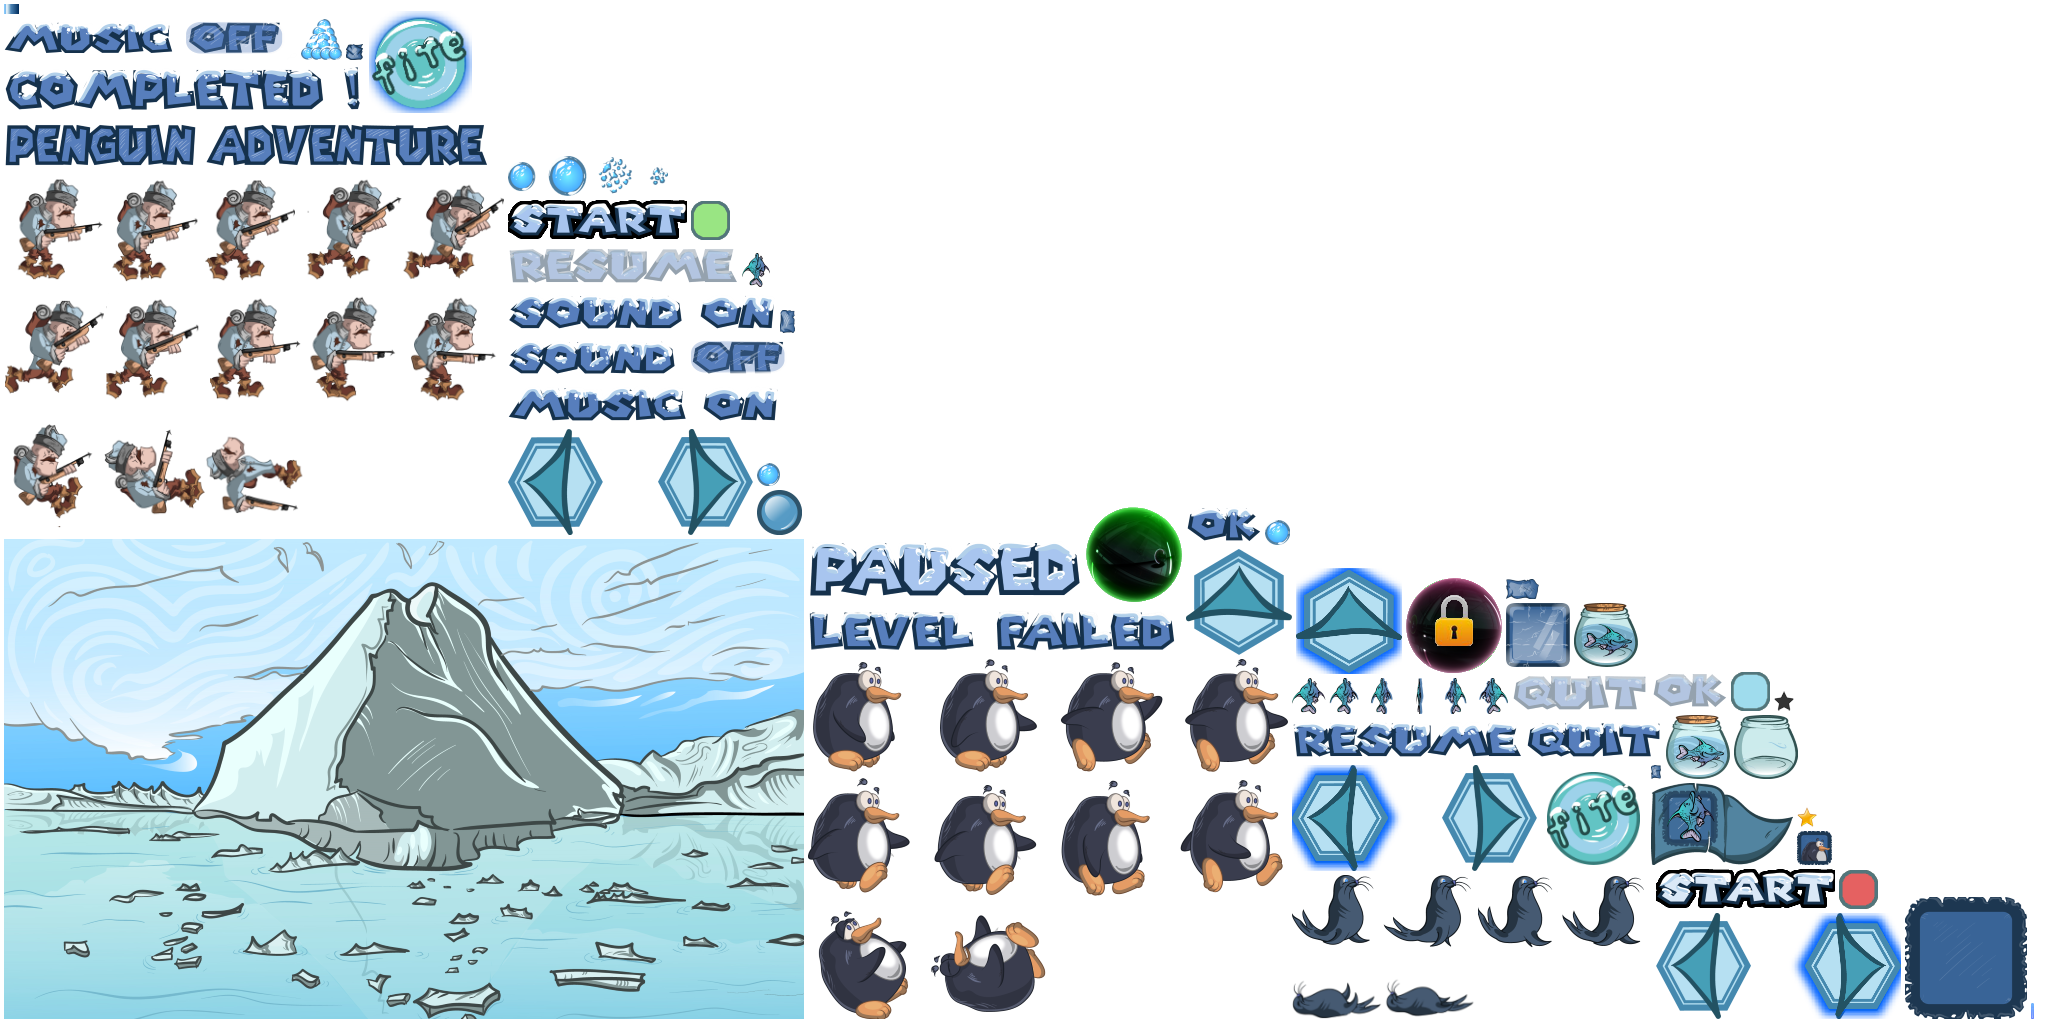
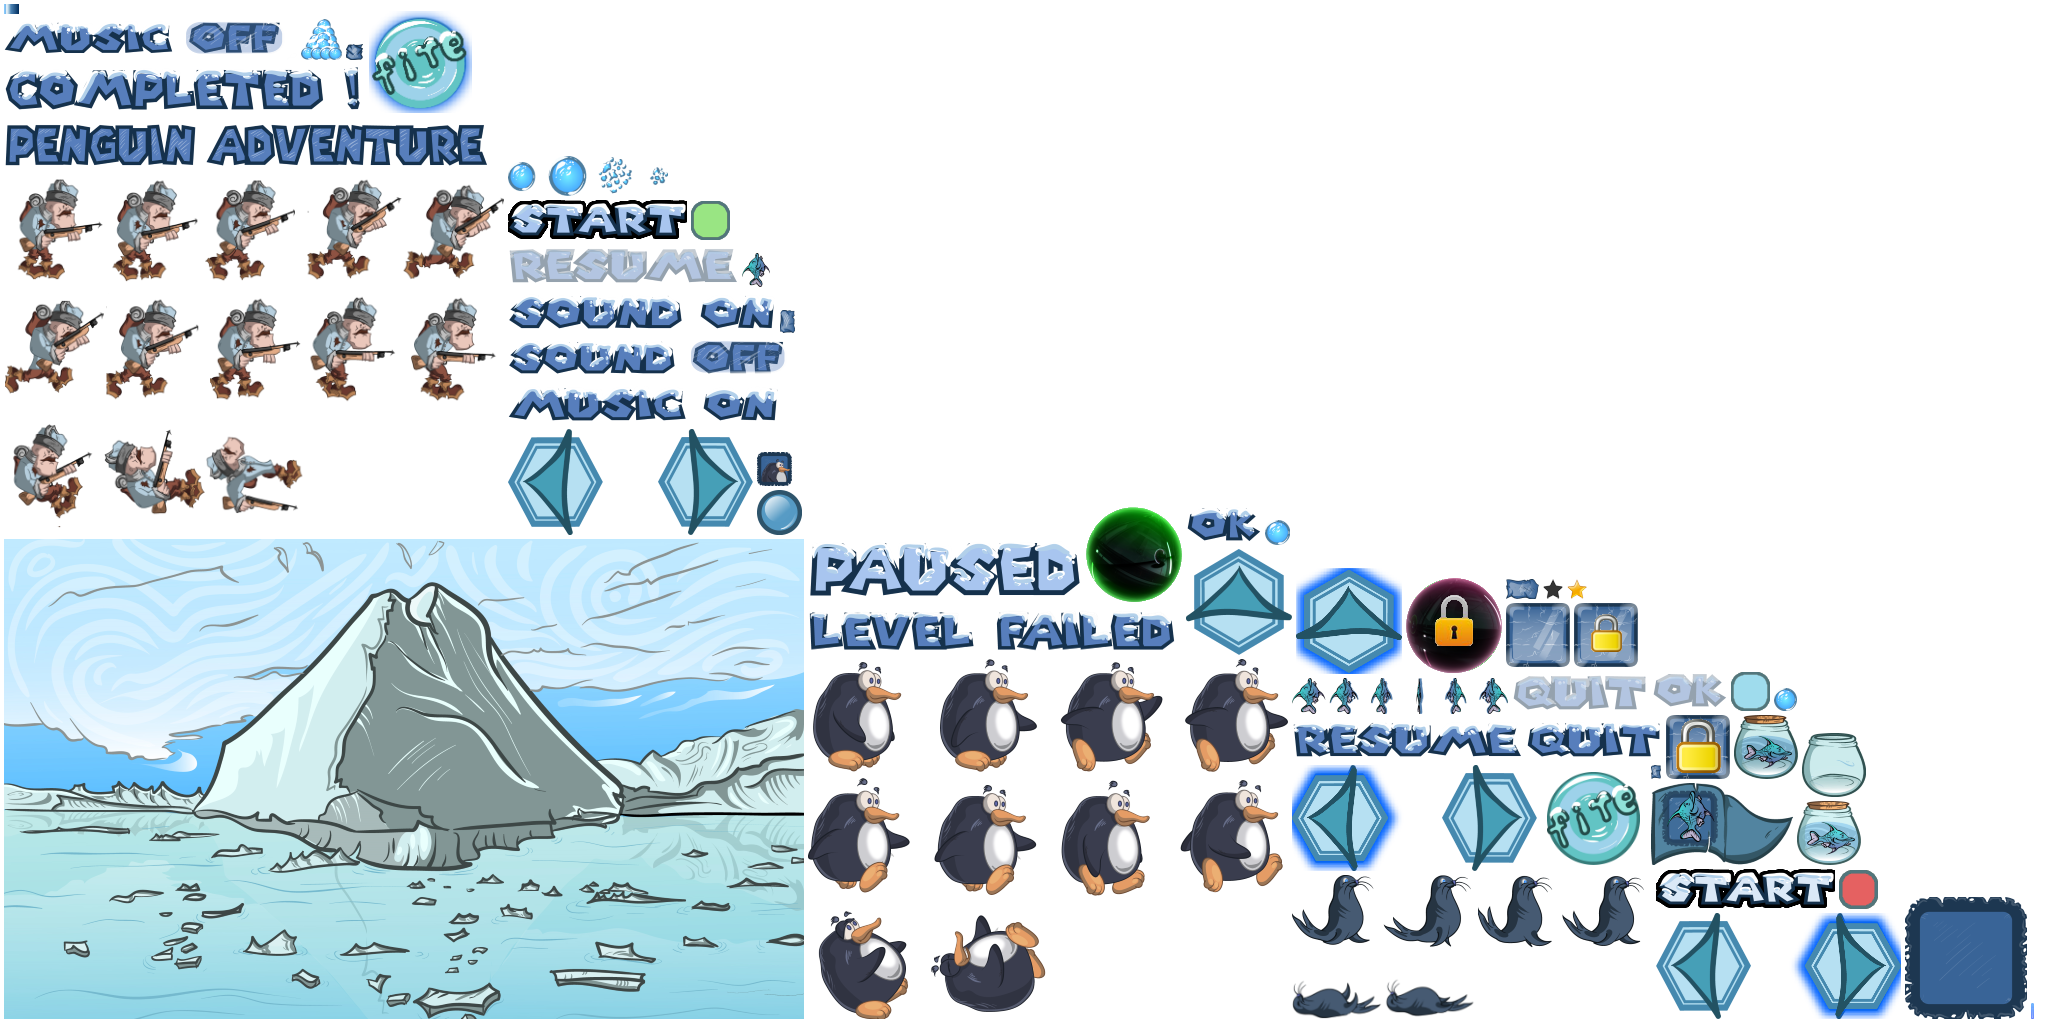
Пали Санёк как я наебенил

Changed region(s): [[0.8125, 0.6562, 0.9062, 0.8438], [0.75, 0.5625, 0.8125, 0.6562], [0.3438, 0.4375, 0.4062, 0.4688]]

diff --git a/core/src/com/boontaran/games/supermario/screens/LevelMap.java b/core/src/com/boontaran/games/supermario/screens/LevelMap.java
@@ -17,6 +17,8 @@ import com.boontaran.games.StageGame;
 import com.boontaran.games.supermario.LevelButton;
 import com.boontaran.games.supermario.SuperMario;
 
+import java.util.Random;
+
 public class LevelMap extends StageGame {
 
     PagedScrollPane scroll;
@@ -60,13 +62,13 @@ public class LevelMap extends StageGame {
         scroll.setFlingTime(0.1f);
         scroll.setPageSpacing(25);
         int c = 1;
-        for (int l = 0; l < 2; l++) {
+        for (int l = 0; l < 4; l++) {
             Table levels = new Table().pad(50);
             levels.defaults().pad(20, 40, 20, 40);
             for (int y = 0; y < 2; y++) {
                 levels.row();
-                for (int x = 0; x < 3; x++) {
-                    levels.add(getLevelButton(c++)).expand().fill();
+                for (int x = 0; x < 4; x++) {
+                    levels.add(getLevelButton(l+1, y*4+x+1)).expand().fill();
                 }
             }
             scroll.addPage(levels);
@@ -89,7 +91,7 @@ public class LevelMap extends StageGame {
 		centerActorX(label);
 	}
 
-    public LevelButton getLevelButton(int level) {
+   /* public LevelButton getLevelButton(int level) {
         LabelStyle Labelstyle = new LabelStyle();
         Labelstyle.font = SuperMario.font1;
         Labelstyle.fontColor = new Color(0x243E60ff);
@@ -105,7 +107,7 @@ public class LevelMap extends StageGame {
         if(5<level){
             //button.stack(new Image(skinRunner.getDrawable("ball_lock")), label).expand().fill();
         }else{
-            //button.stack(new Image(skinRunner.getDrawable("ball")), label).expand().fill();
+            button.stack(new Image(skinRunner.getDrawable("ball")), label).expand().fill();
         }
 
         //skinLibgdx.add("star-filled", skinLibgdx.newDrawable("white", Color.YELLOW), Drawable.class);
@@ -118,6 +120,7 @@ public class LevelMap extends StageGame {
         if (stars >= 0) {
             for (int star = 0; star < 3; star++) {
                 if (stars > star) {
+                    starTable.add(new Image(SuperMario.atlas.findRegion("star_y"))).width(20).height(20);
                     //starTable.add(new Image(skinRunner.getDrawable("star_y"))).width(20).height(20);
                 } else {
                     //starTable.add(new Image(skinRunner.getDrawable("star_g"))).width(20).height(20);
@@ -125,14 +128,77 @@ public class LevelMap extends StageGame {
             }
         }
 
-        //button.row();
-        //button.add(starTable).height(30);
+        button.row();
+        button.add(starTable).height(30);
+
+        button.setName(levelName);
+        button.addListener(levelButtonListener);
+        return button;
+    }*/
+
+
+    public Button getLevelButton(int world, int level) {
+        Button button = new Button(new Image(SuperMario.atlas.findRegion("star_y")).getDrawable());
+        Button.ButtonStyle style = button.getStyle();
+        style.up = 	style.down = null;
+
+        String levelName="";
+
+        int curLevelProgress = 1+SuperMario.data.getLevelProgress();
+
+        if(curLevelProgress<(world-1)*8+level){
+            levelName = "";
+        }else {
+            levelName = String.valueOf(world) + " - " + String.valueOf(level);
+        }
+
+        LabelStyle labelstyle = new LabelStyle();
+        labelstyle.font = SuperMario.font1;
+        labelstyle.fontColor = new Color(Color.YELLOW);
+
+        Label label = new Label(levelName, labelstyle);
+        label.setFontScale(0.7f);
+        label.setAlignment(Align.center);
+        //label.setAlignment(Align.center);
+
+        if(curLevelProgress<(world-1)*8+level){
+            button.stack(new Image(SuperMario.atlas.findRegion("brick_lock")), label).expand().fill();
+        }else{
+            button.stack(new Image(SuperMario.atlas.findRegion("brick")), label).expand().fill();
+        }
+
+        //skinLibgdx.add("star-filled", skinLibgdx.newDrawable("white", Color.YELLOW), Drawable.class);
+        //skinLibgdx.add("star-unfilled", skinLibgdx.newDrawable("white", Color.GRAY), Drawable.class);
+
+        int stars = SuperMario.data.getStar((world-1)*8+level);
+
+        /*if (curLevelProgress<(world-1)*8+level){
+            stars = 0;
+        }else {
+            Random rand = new Random();
+            stars = 0 + rand.nextInt((3 - 0) + 1);
+        }*/
+
+
+        Table starTable = new Table();
+        starTable.defaults().pad(5);
+        if (stars >= 0) {
+            for (int star = 0; star < 3; star++) {
+                if (stars > star) {
+                    starTable.add(new Image(SuperMario.atlas.findRegion("star_y"))).width(35).height(35);
+                } else {
+                    starTable.add(new Image(SuperMario.atlas.findRegion("star_g"))).width(35).height(35);
+                }
+            }
+        }
+
+        button.row();
+        button.add(starTable).height(30);
 
         button.setName(levelName);
         button.addListener(levelButtonListener);
         return button;
     }
-
 
 
 
@@ -164,12 +230,24 @@ public class LevelMap extends StageGame {
 
 		@Override
 		public void clicked(InputEvent event, float x, float y) {
-			LevelButton icon = (LevelButton)event.getTarget();
+			//LevelButton icon = (LevelButton)event.getTarget();
+            Label icon = (Label)event.getTarget();
+
+            String level =  icon.getText().toString();
+
+            if(level.trim().equalsIgnoreCase("")) return;
+
+            String[] bla=level.split("-");
+
+            int part1=(Integer.valueOf(bla[0].trim())-1)*8;
+            int part2=Integer.valueOf(bla[1].trim());
+
+            selectedLevelId=part1+part2;
 			
-			if(icon.isLocked()) return;
+			//if(icon.isLocked()) return;
 
 			//note the selected id
-			selectedLevelId = icon.getId();
+			//selectedLevelId = icon.getId();
 			
 			//notify main program
 			call(ON_ICON_SELECTED);
@@ -192,5 +270,7 @@ public class LevelMap extends StageGame {
 		}
 		return super.keyDown(keycode);
 	}
+
+
 
 }

diff --git a/core/src/com/boontaran/games/supermario/data/Data.java b/core/src/com/boontaran/games/supermario/data/Data.java
@@ -11,6 +11,14 @@ public class Data {
 	private String levelScoreKey = "ls";
 	private String soundMuteKey = "smt";
 	private String musicMuteKey = "mmt";
+
+	public int getStar(int level){
+		return manager.getInt("s"+level, 0);
+	}
+
+	public void saveStar(int level,int result){
+		manager.saveInt("s"+level, result);
+	}
 	
 	public Data() {
 		manager = new DataManager(prefName);

diff --git a/core/src/com/boontaran/games/supermario/LevelCompletedDialog.java b/core/src/com/boontaran/games/supermario/LevelCompletedDialog.java
@@ -46,7 +46,9 @@ public class LevelCompletedDialog extends Group {
 		Label scoreLabel = new Label(String.valueOf(score) , style2);
 		addActor(scoreLabel);
 		scoreLabel.setPosition((getWidth() - scoreLabel.getWidth())/2, label.getY() - 50);
-		
+
+
+
 		//OK button
 		ImageButton okBtn = new ImageButton(
 				new TextureRegionDrawable(SuperMario.atlas.findRegion("ok_btn")), 

diff --git a/core/src/com/boontaran/games/supermario/Level.java b/core/src/com/boontaran/games/supermario/Level.java
@@ -943,6 +943,8 @@ public class Level extends World {
 		pauseWorld();
 		
 		//show "level completed" dialog box
+		SuperMario.data.saveStar(id, 3);
+
 		LevelCompletedDialog dialog = new LevelCompletedDialog(score);
 		addOverlayChild(dialog);
 		centerActorXY(dialog);
